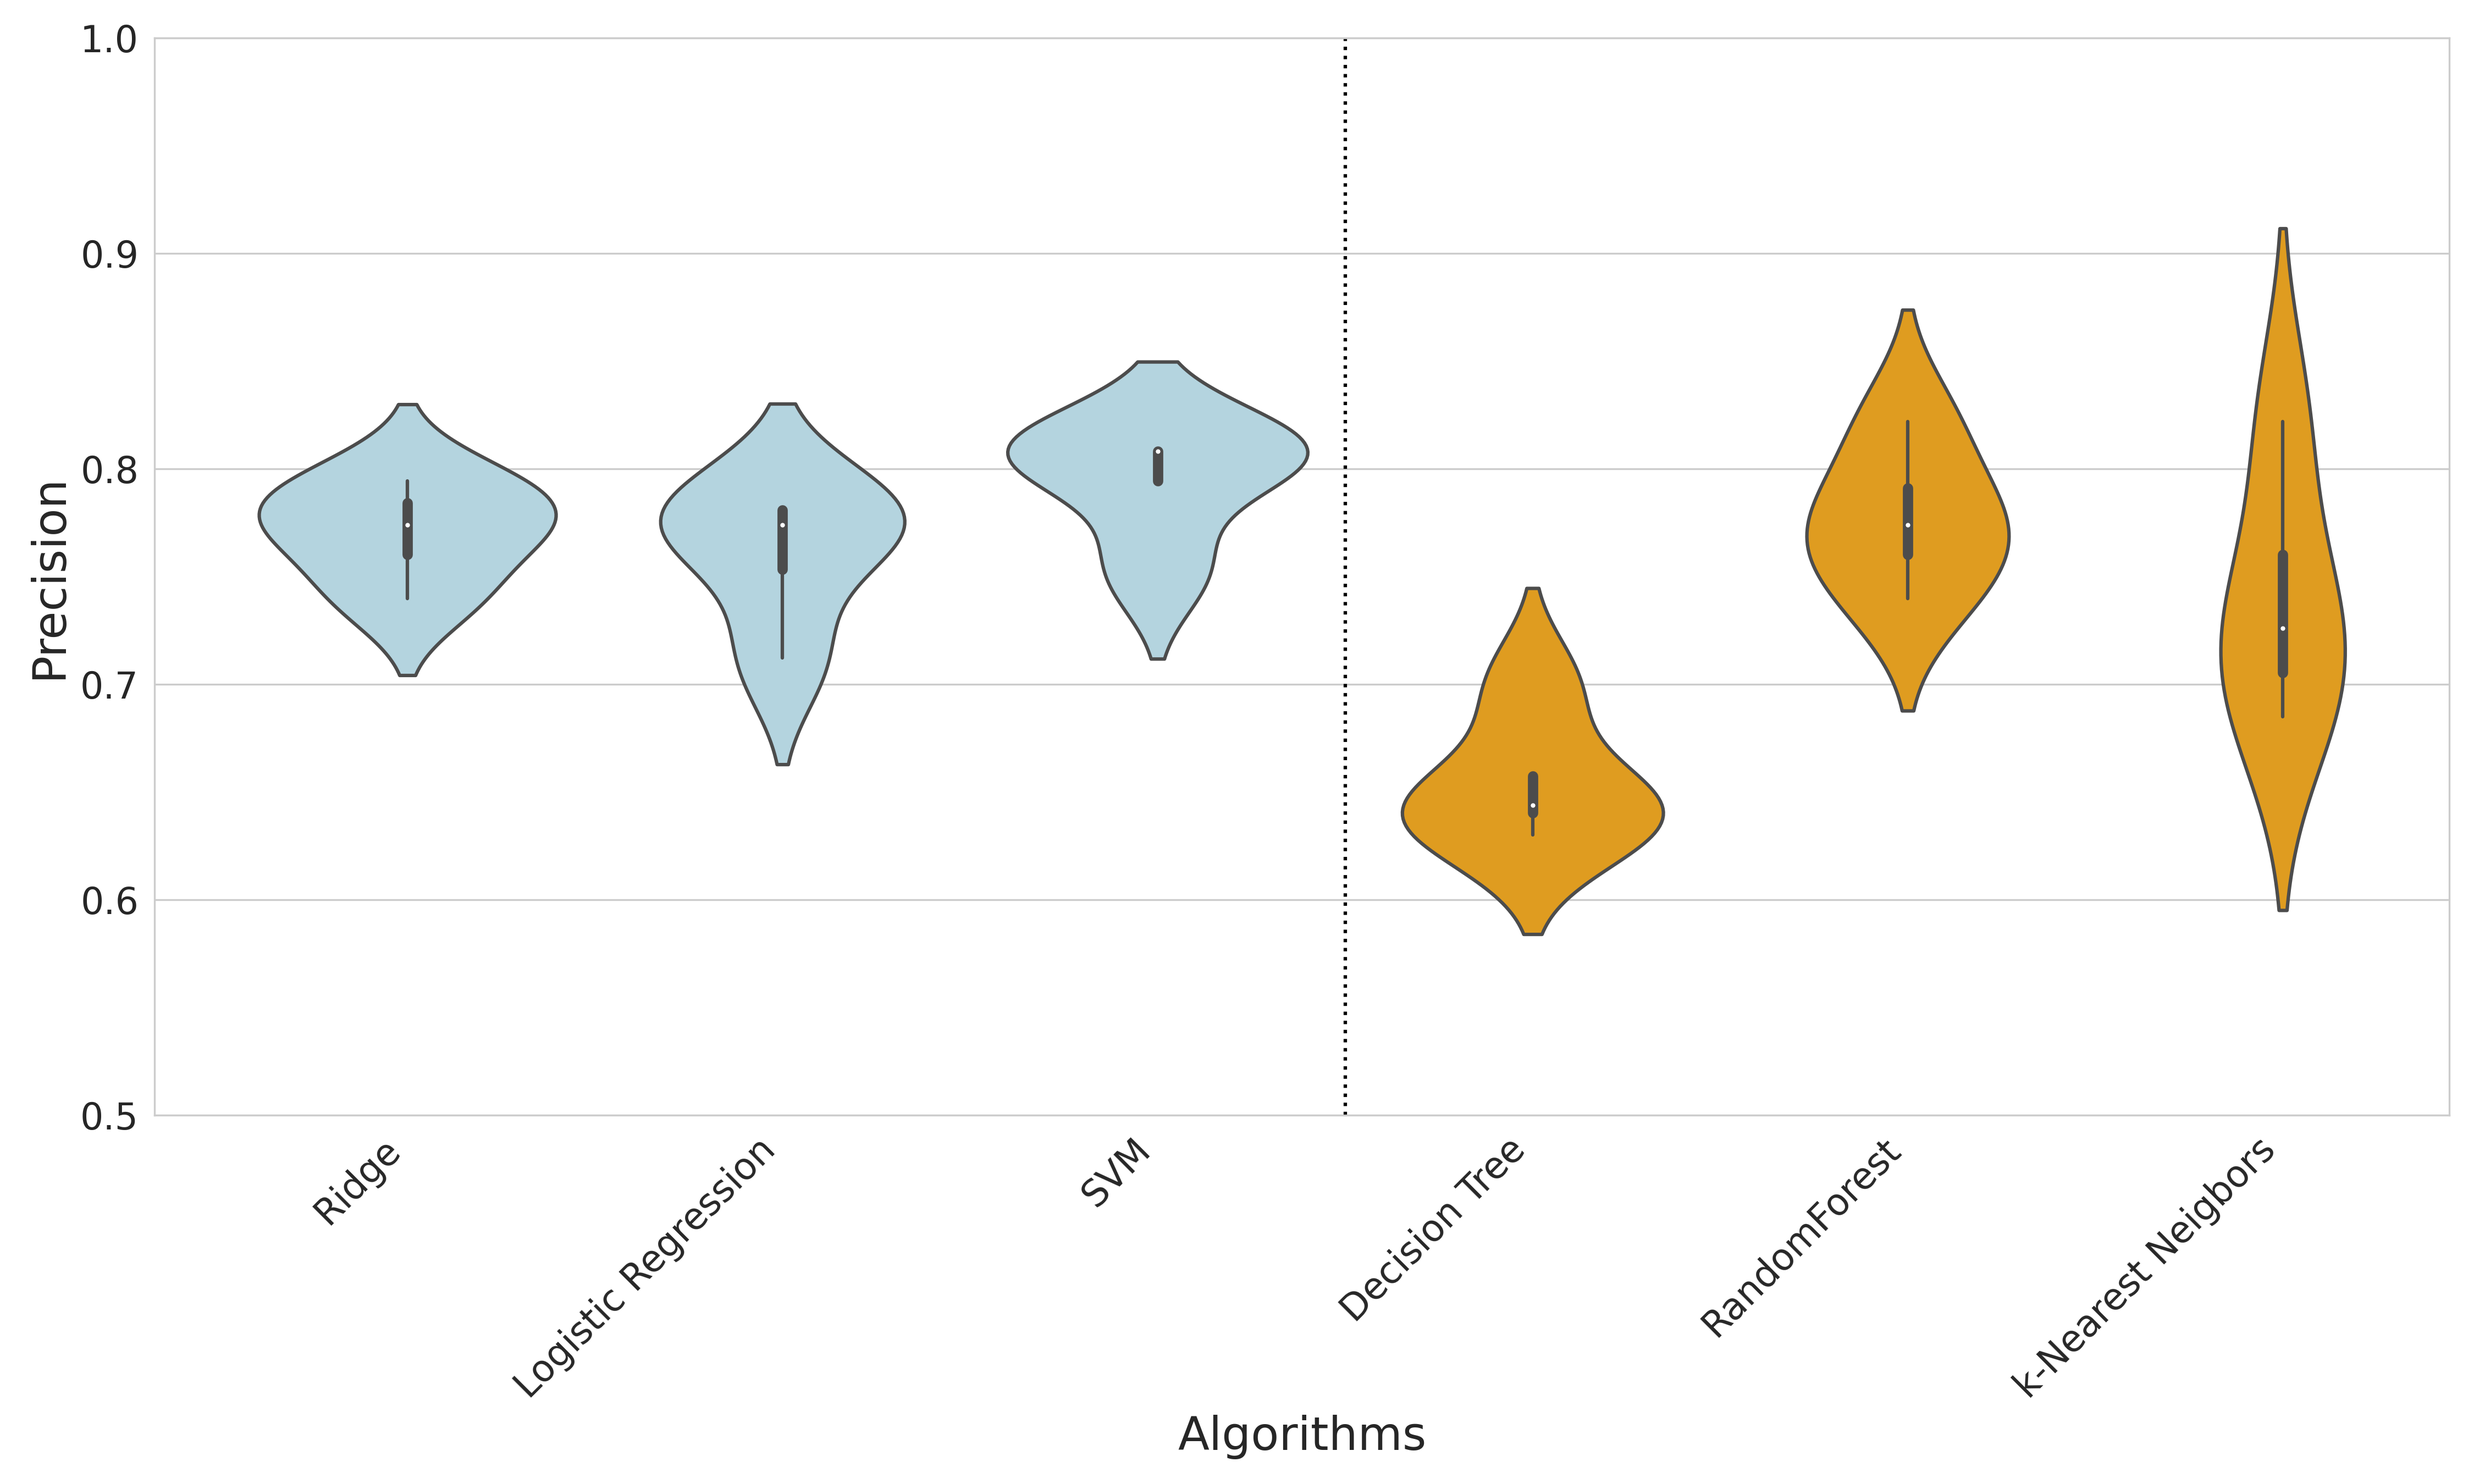
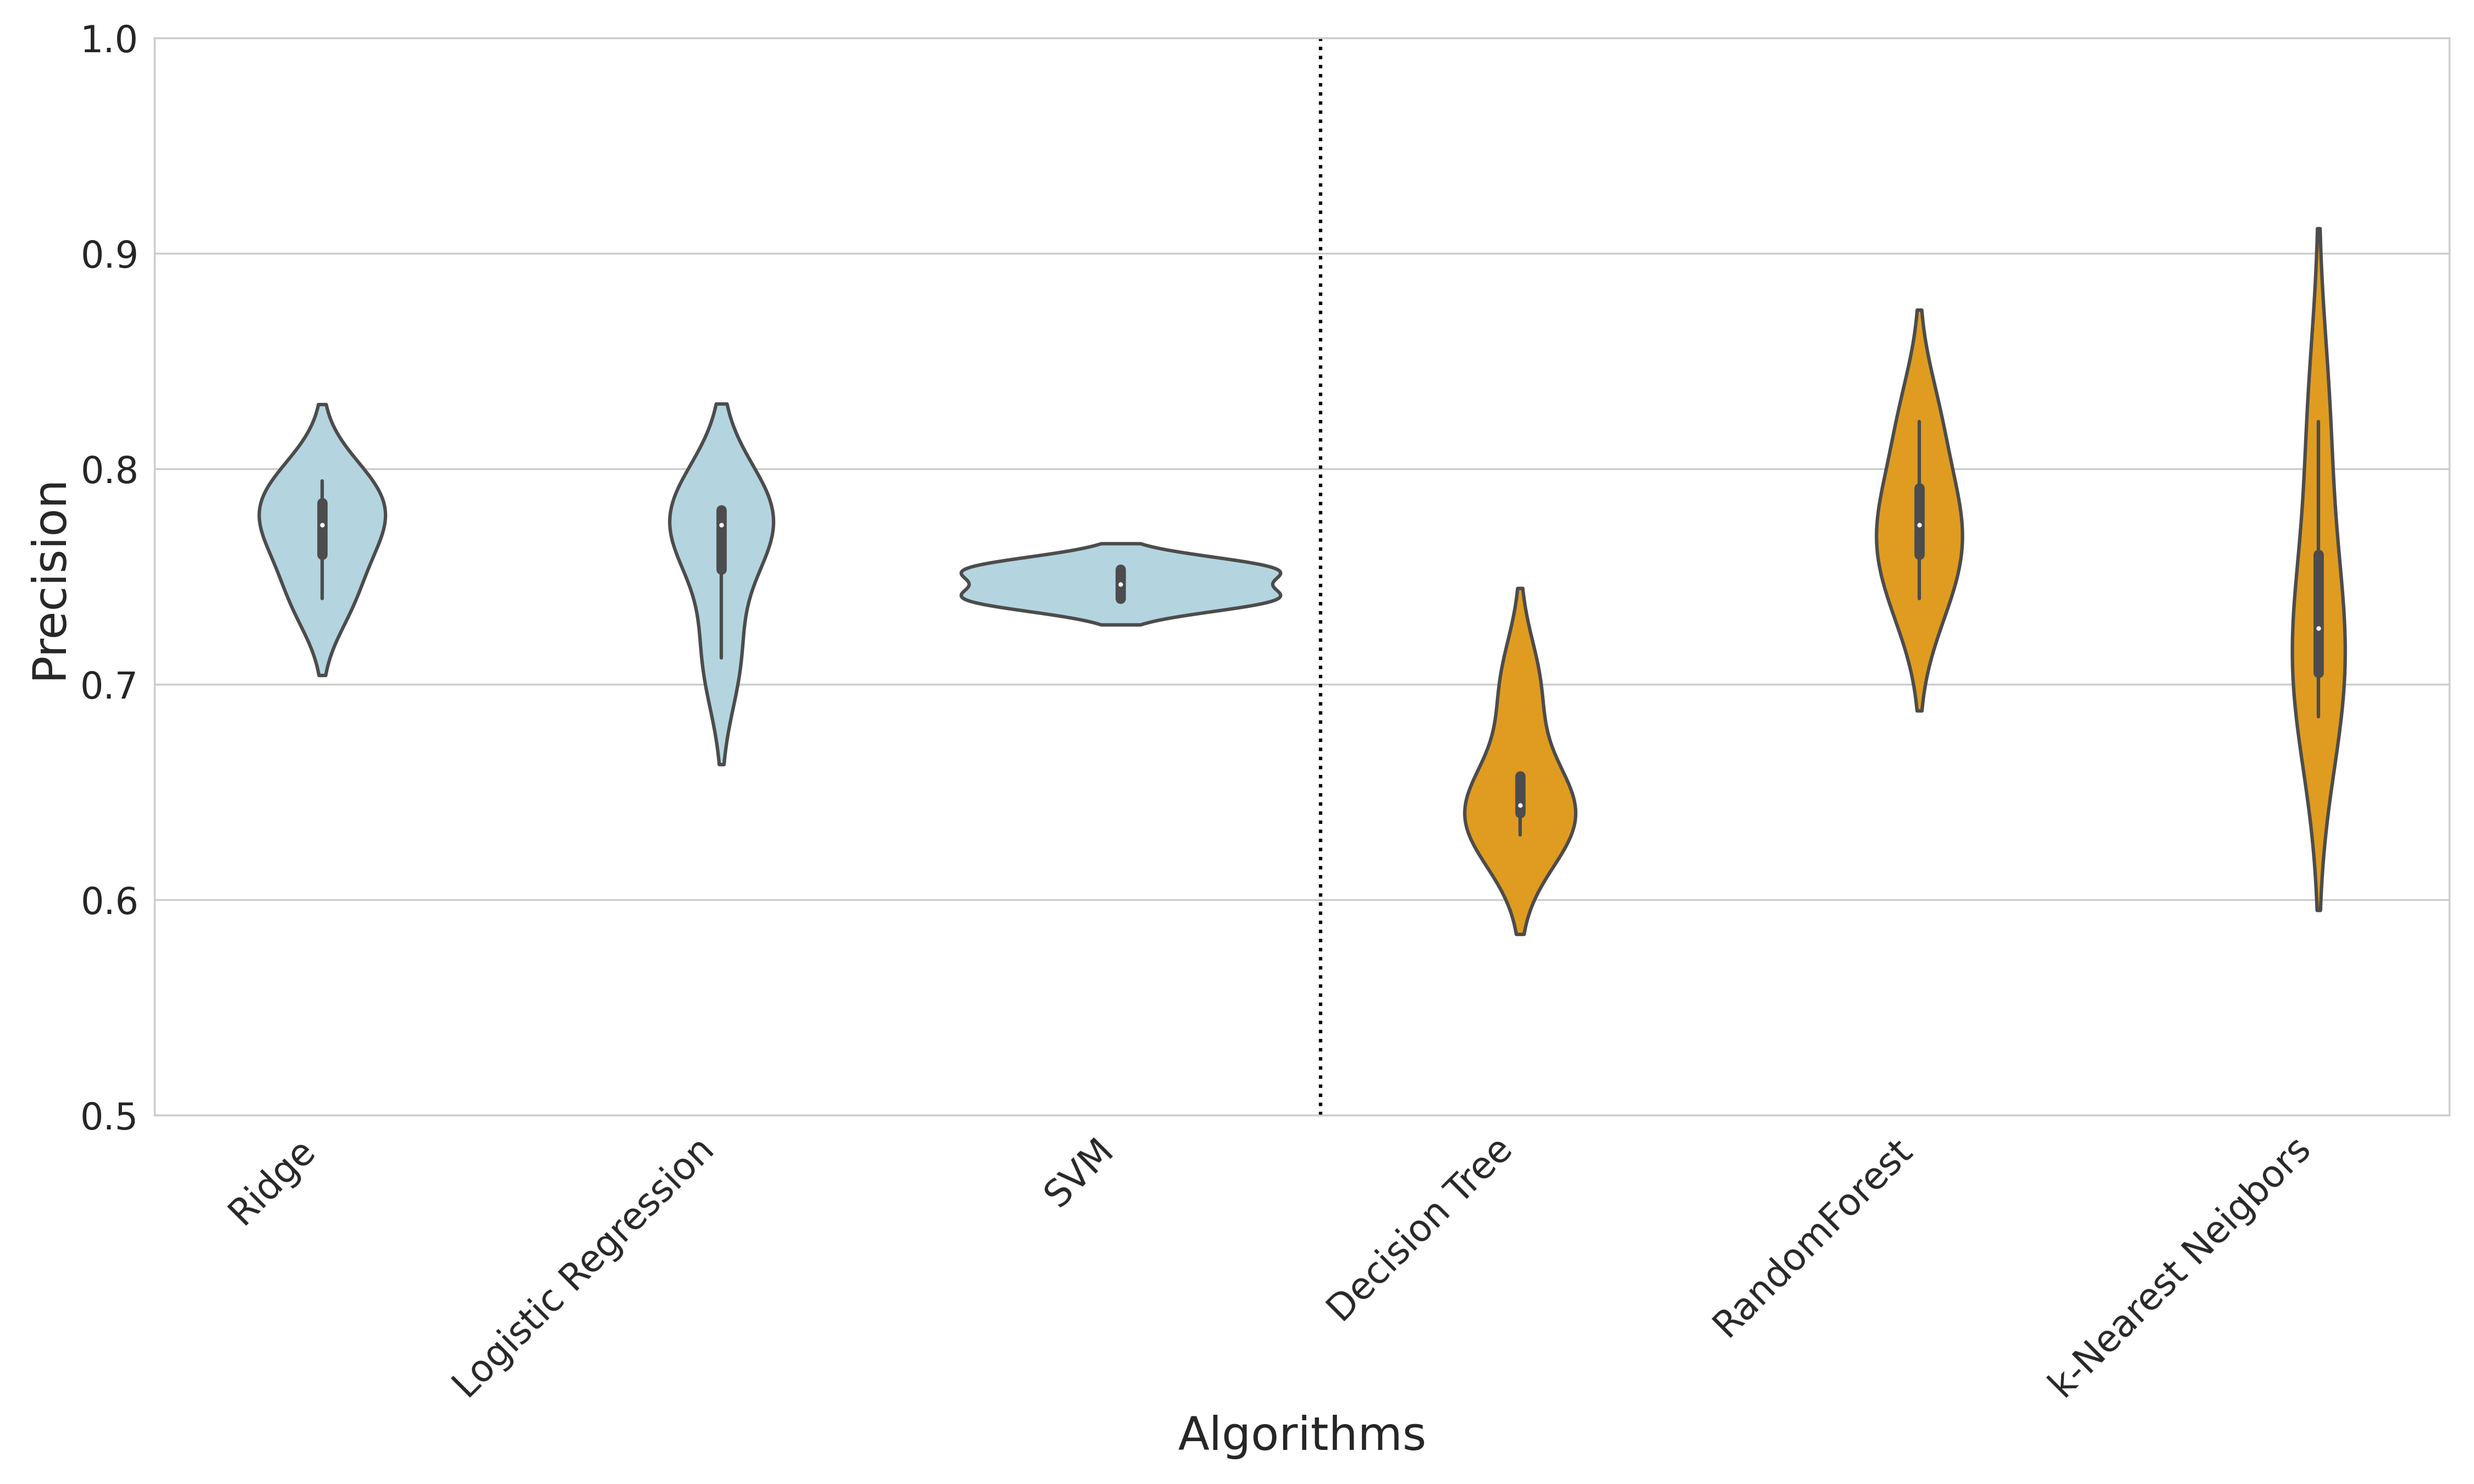
chnage SVM linear

diff --git a/APPETIT/NCV_APPETIT.py b/APPETIT/NCV_APPETIT.py
@@ -88,7 +88,7 @@ estimators_classif = [
     #linear estimators
     ['Ridge', {'alpha': np.logspace(-5, +5, 11)}, RidgeClassifier(random_state=0)],
     ['Logistic Regression',{'C': np.logspace(-5, +5, 11)},LogisticRegression(random_state=0)],
-    ['SVM', {'C': np.logspace(-5, +5, 11)}, SVC(kernel="linear", random_state=0)],
+    ['SVM', {'C': np.logspace(-1, +1, 11)}, SVC(kernel="linear", random_state=0)],
     #non-linear estimators
     ['Decision Tree', {'max_depth': [3,5,10,None]}, DecisionTreeClassifier(random_state=0)],
     ['RandomForest', {'n_estimators':[50,100,200], 'max_depth': [3,5,10,None]}, RandomForestClassifier(random_state=0)],
